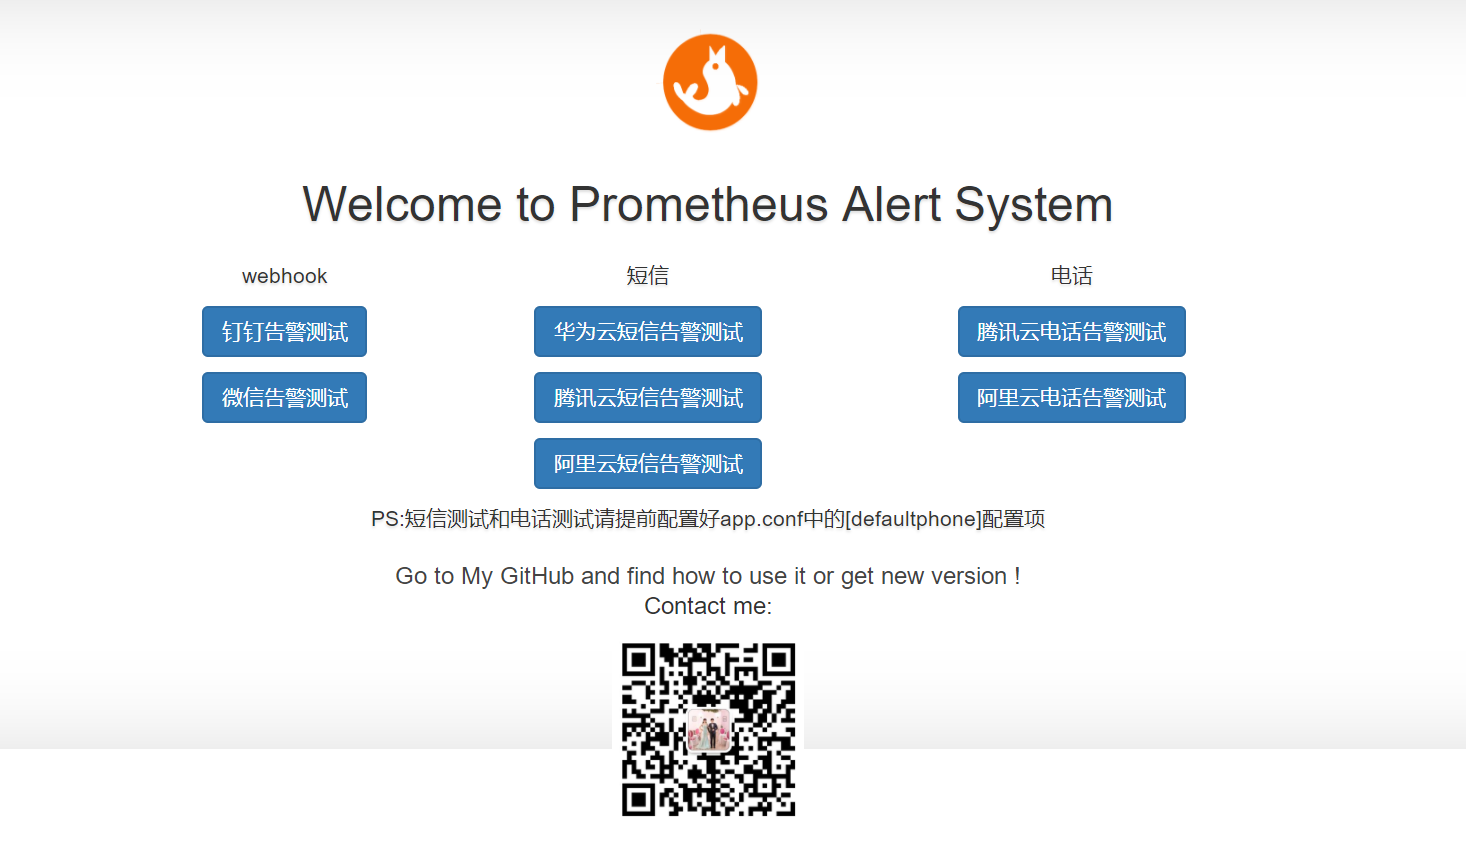
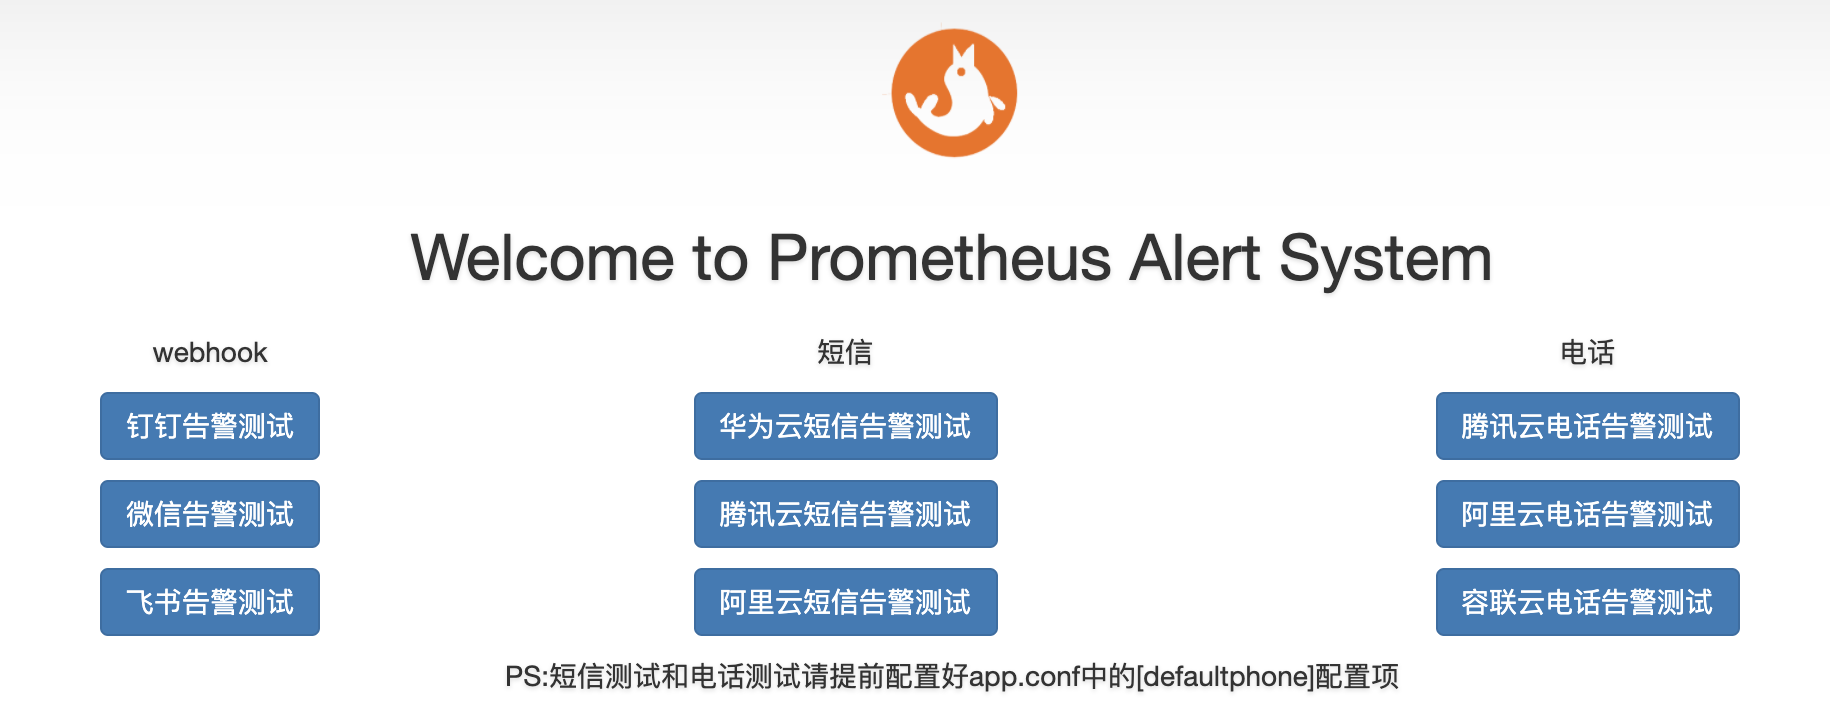
增加容联云语音告警&&飞书配置文档

Changed region(s): [[0.0307, 0.3039, 0.8288, 0.9724], [0.7674, 0.4558, 0.9516, 0.8812], [0.1842, 0.0304, 0.7674, 0.2735]]

diff --git a/README.MD b/README.MD
@@ -24,7 +24,7 @@
 
 -----------------
 
-PrometheusAlert是开源的运维告警中心消息转发系统，支持主流的监控系统Prometheus、Zabbix，日志系统Graylog2，Graylog3和数据可视化系统Grafana发出的预警消息，支持将收到的这些消息发送到钉钉，微信，腾讯短信，腾讯电话，阿里云短信，阿里云电话，华为短信等。
+PrometheusAlert是开源的运维告警中心消息转发系统，支持主流的监控系统Prometheus、Zabbix，日志系统Graylog2，Graylog3和数据可视化系统Grafana发出的预警消息，支持将收到的这些消息发送到钉钉，微信，飞书，腾讯短信，腾讯电话，阿里云短信，阿里云电话，华为短信等。
 
 ![it](https://raw.githubusercontent.com/feiyu563/PrometheusAlert/master/doc/it.png)
 
@@ -39,6 +39,7 @@ PrometheusAlert具备如下特性
  - 增加手机号码配置项和号码自动轮询配置，可固定发送给单一个人告警信息，也可以通过自动轮询的方式发送到多个人员且支持按照不同日期发送到不同人员。
  - 增加Dashboard
  - 增加代理支持，感谢[@pzqu](https://github.com/pzqu)提交
+ - 增加飞书，容联云告警方式，感谢[@bigdimple](https://github.com/bigdimple)提交
 --------------------------------------
 
 ## PrometheusAlert全家桶新手入门
@@ -55,9 +56,11 @@ PrometheusAlert具备如下特性
   * [zabbix配置](doc/readme/zabbix.md)
 * [告警接收目标配置]
   * [钉钉告警配置](doc/readme/dingding.md)
+  * [飞书告警配置](doc/readme/feishu.md)
   * [企业微信告警配置](doc/readme/wechat.md)
   * [阿里云短信和电话告警配置](doc/readme/aliyun.md)
   * [腾讯云短信和电话告警配置](doc/readme/tx.md)
+  * [容联云电话告警配置](doc/readme/rly.md)
   * [华为云短信配置](doc/readme/hw.md)
 * [PrometheusAlert版本更新说明](https://github.com/feiyu563/PrometheusAlert/releases)
 * [如何对PrometheusAlert进行二次开发](https://github.com/feiyu563/PrometheusAlert/wiki/%E5%A6%82%E4%BD%95%E8%BF%9B%E8%A1%8C%E3%80%90PrometheusAlert%E3%80%91%E4%BA%8C%E6%AC%A1%E5%BC%80%E5%8F%91)

diff --git a/doc/readme/graylog.md b/doc/readme/graylog.md
@@ -15,11 +15,13 @@
 /graylog2/phone     处理Graylog2告警消息转发到腾讯云电话接口(v3.0版本将废弃)
 /graylog2/dingding  处理Graylog2告警消息转发到钉钉接口
 /graylog2/weixin    处理Graylog2告警消息转发到微信接口
+/graylog2/feishu    处理Graylog2告警消息转发到飞书接口
 /graylog2/txdx      处理Graylog2告警消息转发到腾讯云短信接口
 /graylog2/txdh      处理Graylog2告警消息转发到腾讯云电话接口
 /graylog2/hwdx      处理Graylog2告警消息转发到华为云短信接口
 /graylog2/alydx     处理Graylog2告警消息转发到阿里云短信接口
 /graylog2/alydh     处理Graylog2告警消息转发到阿里云电话接口
+/graylog2/rlydh     处理Graylog2告警消息转发到容联云电话接口
 ```
 
  - `graylog3接口`
@@ -30,11 +32,13 @@
 /graylog3/phone     处理Graylog3告警消息转发到腾讯云电话接口(v3.0版本将废弃)
 /graylog3/dingding  处理Graylog3告警消息转发到钉钉接口
 /graylog3/weixin    处理Graylog3告警消息转发到微信接口
+/graylog3/feishu    处理Graylog3告警消息转发到飞书接口
 /graylog3/txdx      处理Graylog3告警消息转发到腾讯云短信接口
 /graylog3/txdh      处理Graylog3告警消息转发到腾讯云电话接口
 /graylog3/hwdx      处理Graylog3告警消息转发到华为云短信接口
 /graylog3/alydx     处理Graylog3告警消息转发到阿里云短信接口
 /graylog3/alydh     处理Graylog3告警消息转发到阿里云电话接口
+/graylog3/rlydh     处理Graylog3告警消息转发到容联云电话接口
 ```
 
 ![graylog3](https://raw.githubusercontent.com/feiyu563/PrometheusAlert/master/doc/graylog3.png)

diff --git a/doc/readme/prometheus.md b/doc/readme/prometheus.md
@@ -36,6 +36,7 @@ groups:
       description: "{{ $labels.instance }} CPU load占用过高"  #告警信息
       mobile: 15888888881,15888888882,15888888883  #告警发送目标手机号(需要设置电话和短信告警级别)
       ddurl: "https://oapi.dingtalk.com/robot/send?access_token=xxxxxxxxxxxxxxxxxxxxxxxxxxxxxxxxxxxx,https://oapi.dingtalk.com/robot/send?access_token=xxxxxxxxxxxxxxxxxxxxxxxxxxxxxxxxxxxx" #支持添加多个钉钉机器人告警,用,号分割即可,如果留空或者未填写,则默认发送到配置文件中填写的钉钉器人地址
+      fsurl: "https://open.feishu.cn/open-apis/bot/hook/xxxxxxxxx,https://open.feishu.cn/open-apis/bot/hook/xxxxxxxxx" #支持添加多个飞书机器人告警,用,号分割即可,如果留空或者未填写,则默认发送到配置文件中填写的飞书器人地址
       wxurl: "https://qyapi.weixin.qq.com/cgi-bin/webhook/send?key=xxxxxxxx-xxxxxx-xxxxxx-xxxxxx,https://qyapi.weixin.qq.com/cgi-bin/webhook/send?key=xxxxx-xxxx-xxxxxxx-xxxxx" #支持添加多个企业微信机器人告警,用,号分割即可,如果留空或者未填写,则默认发送到配置文件中填写的企业微信机器人地址
 ```
 

diff --git a/doc/readme/setup.md b/doc/readme/setup.md
@@ -50,6 +50,11 @@ open-weixin=1
 #默认企业微信机器人地址
 wxurl=https://qyapi.weixin.qq.com/cgi-bin/webhook/send?key=xxxxx
 
+#是否开启飞书告警通道,可同时开始多个通道0为关闭,1为开启
+open-feishu=1
+#默认飞书机器人地址
+fsurl=https://open.feishu.cn/open-apis/bot/hook/xxxxxxxxx
+
 #---------------------↓腾讯云接口-----------------------
 #是否开启腾讯云短信告警通道,可同时开始多个通道0为关闭,1为开启
 open-txdx=1
@@ -109,5 +114,17 @@ ALY_DH_AccessSecret=xxxxxxxxxxxxxxxxxxxxxx
 ALY_DX_CalledShowNumber=xxxxxxxxx
 #阿里云电话文本转语音（TTS）模板ID
 ALY_DH_TtsCode=xxxxxxxx
+
+#---------------------↓容联云接口-----------------------
+#是否开启腾讯云电话告警通道,可同时开始多个通道0为关闭,1为开启
+RLY_DH_open-rlydh=1
+#容联云基础接口地址
+RLY_URL=https://app.cloopen.com:8883/2013-12-26/Accounts/
+#容联云后台SID
+RLY_ACCOUNT_SID=xxxxxxxxxxx
+#容联云api-token
+RLY_ACCOUNT_TOKEN=xxxxxxxxxx
+#容联云app_id
+RLY_APP_ID=xxxxxxxxxxxxx
 
 ```

diff --git a/doc/readme/rly.md b/doc/readme/rly.md
@@ -1,0 +1,29 @@
+## 容联云电话告警配置
+
+登录地址：https://www.yuntongxun.com/member/main
+
+如需开通请联系云通讯商务人员或拨打400-610-1019
+
+* 语音（电话）：https://doc.yuntongxun.com/p/5a5342c73b8496dd00dce139
+* 注意事项：开通容联云需要配置的模版请使用如下：`prometheus告警:{9}`
+
+所需配置信息：
+
+![rly](https://raw.githubusercontent.com/feiyu563/PrometheusAlert/master/doc/ronglianyun.png)
+
+
+容联云语音相关配置：
+
+```
+#---------------------↓容联云接口-----------------------
+#是否开启容联云电话告警通道,可同时开始多个通道0为关闭,1为开启
+RLY_DH_open-rlydh=1
+#容联云基础接口地址
+RLY_URL=https://app.cloopen.com:8883/2013-12-26/Accounts/
+#容联云后台SID
+RLY_ACCOUNT_SID=xxxxxxxxxxx
+#容联云api-token
+RLY_ACCOUNT_TOKEN=xxxxxxxxxx
+#容联云app_id
+RLY_APP_ID=xxxxxxxxxxxxx
+```

diff --git a/doc/readme/feishu.md b/doc/readme/feishu.md
@@ -1,0 +1,21 @@
+PrometheusAlert全家桶飞书配置说明
+
+-----------------
+
+ **开启飞书机器人**
+
+打开飞书,进入飞书群中,选择群设置-->群机器人-->添加机器人-->Custom Bot，可参下图：
+
+![fei](https://raw.githubusercontent.com/feiyu563/PrometheusAlert/master/doc/feishu1.png)
+![fei2](https://raw.githubusercontent.com/feiyu563/PrometheusAlert/master/doc/feishu2.png)
+![fei3](https://raw.githubusercontent.com/feiyu563/PrometheusAlert/master/doc/feishu3.png)
+复制图中的Webhook地址，并填入PrometheusAlert配置文件app.conf中对应配置项即可。
+飞书相关配置：
+
+```
+#---------------------↓webhook-----------------------
+#是否开启飞书告警通道,可同时开始多个通道0为关闭,1为开启
+open-feishu=1
+#默认飞书机器人地址
+fsurl=https://open.feishu.cn/open-apis/bot/hook/xxxxxxxxx
+```

diff --git a/doc/readme/grafana.md b/doc/readme/grafana.md
@@ -10,11 +10,12 @@
 /grafana/phone     处理Grafana告警消息转发到腾讯云电话接口(v3.0版本将废弃)
 /grafana/dingding  处理Grafana告警消息转发到钉钉接口
 /grafana/weixin    处理Grafana告警消息转发到微信接口
+/grafana/feishu    处理Grafana告警消息转发到飞书接口
 /grafana/txdx      处理Grafana告警消息转发到腾讯云短信接口
 /grafana/txdh      处理Grafana告警消息转发到腾讯云电话接口
 /grafana/hwdx      处理Grafana告警消息转发到华为云短信接口
 /grafana/alydx     处理Grafana告警消息转发到阿里云短信接口
-/grafana/alydh     处理Grafana告警消息转发到阿里云电话接口
+/grafana/rlydh     处理Grafana告警消息转发到容联云电话接口
 ```
 
 ![grafana2](https://raw.githubusercontent.com/feiyu563/PrometheusAlert/master/doc/addchannel2.png)
